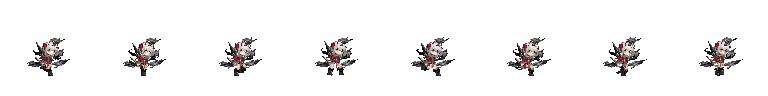
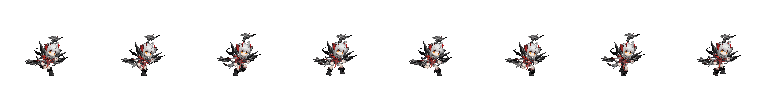
维什戴尔 S2 跑动第二版：腿看得出来（用户 10-24「S2 跑动我没看到腿」）
第一版用 move_attack（上半身照抄 S2 待机、只换腿），步幅小，膝盖高度又被展开的浮游武器和外套甲片挡住。
改成普通跑步同一套步态（前倾、下蹲），底稿换成原作 Skill_2_Idle / Skill_2_Overload_Idle 首帧，摆臂收小（保留架炮姿态），
步幅 ×1.6、离地抬高，四件浮游武器上抬 5 / 后收 2 像素。run_trial.js 加 maCarry（移动攻击也能带浮游部件，试做用）。

diff --git a/tools/spine_run_trial/run_trial.js b/tools/spine_run_trial/run_trial.js
@@ -197,7 +197,7 @@ async function main() {
     rotate(sk, hip, -f * P.lean); }
     // carry：不挂在身体骨链上、但该跟着身体走的部件（维什戴尔四件浮游武器挂在 Front 下）——随起伏 / 前倾绕髋转，
     // 再按配置抬起 / 后收 / 转角，[dx, dy, 度] 像素单位（@2x），带一点滞后摆动
-    for (const [n, off] of Object.entries(MA ? {} : (cfg.carry || {}))) {
+    for (const [n, off] of Object.entries(MA ? (cfg.maCarry || {}) : (cfg.carry || {}))) {   // maCarry：移动攻击 / 技能跑动里也带着浮游部件走（维什戴尔 S2 跑动，武器别挡腿）
       const b = get(sk, n); move(sk, b, 0, BOB[i % 8] * L * P.bob - (P.crouch || 0) * L); rotate(sk, b, -f * P.lean * (P.carryLean ?? 1), [hip.worldX, hip.worldY]);
       move(sk, b, f * (off[0] || 0) / SCALE, (off[1] || 0) / SCALE + (off[3] || 1.5) / SCALE * Math.sin(2 * phi - 1.2));
       if (off[2]) rotate(sk, b, f * off[2]);

diff --git a/tools/op_1x/make_wisadel_s2_run.py b/tools/op_1x/make_wisadel_s2_run.py
@@ -1,7 +1,7 @@
 """维什戴尔 S2 跑动帧条（10-24 用户「二技能的跑动动作得加上」）：S2 期间移动原来停在 s2_idle 上滑步。
-做法同 make_op_1x 的 move_attack（docs/128 §3）：上半身按原作 Spine 的 Skill_2_Idle / Skill_2_Overload_Idle 采样，
-腿换成跑步步态（run_trial.js mode=move_attack），逐部件 1 倍像素化；缩放与 make_op_1x 同口径（原待机首帧身高对齐），
-帧格 / 脚底沿用 s2_idle（96 画布、foot 48.25, 75.86）。上半身采样按真实时间走 8 × 0.075 秒（= 跑步一圈 0.6 秒），浮游武器不会被快放抖动。
+做法同普通跑步 op_wisadel_run（tools/spine_run_trial cfg/wisadel.json 的步态）：底稿换成原作 Spine 的 Skill_2_Idle /
+Skill_2_Overload_Idle 首帧（S2 架炮姿态与展开的浮游武器），逐部件 1 倍像素化；缩放与 make_op_1x 同口径（原待机首帧身高对齐），
+帧格 / 脚底沿用 s2_idle（96 画布、foot 48.25, 75.86）。参数见下面 EXTRA。
 用法：python -X utf8 tools/op_1x/make_wisadel_s2_run.py [--out-dir 目录]（缺省直接写 art/incoming/<tex>@1x.png）
 """
 import argparse, json, os, sys
@@ -16,13 +16,19 @@ SLOTS = {   # 新帧条 → (原生动画, 帧格 / 脚底参照槽)
     "op_wisadel_s2_over_run": ("Skill_2_Overload_Idle", "s2_over_idle"),
 }
 N = 8
-STEP = 0.075
+# 第二版（用户 10-24「S2 跑动我没看到腿」）：第一版用 move_attack（上半身照抄 S2 待机、只换腿），步幅小，
+# 四件浮游武器又横在膝盖高度，腿几乎看不出。改成普通跑步同一套（前倾、下蹲、摆臂收小）、底稿换成 S2 待机首帧，
+# 步幅 ×1.6、离地抬高，四件武器随身体上抬 5 像素 / 后收 2 像素，腿露在武器下面
+EXTRA = {"mode": "run", "sample": None, "params": {"armAmp": 6, "holdAmp": 2, "stride": 1.6},
+         "gaitLiftPx": [None, None, None, None, 14, 16, 7, 3],
+         "carry": {k: [-2, 5, 0] for k in ("C_Weapon_A_01", "C_Weapon_B_01", "C_Weapon_C_01", "C_Weapon_D_01")}}
 
 
 def main():
     ap = argparse.ArgumentParser()
     ap.add_argument("--out-dir", default="")
     ap.add_argument("--only", default="")
+    ap.add_argument("--cfg", default="", help="JSON：追加到 run_trial 配置（试 maCarry / hide / params 用）")
     a = ap.parse_args()
     jd = json.load(open(os.path.join(M.CHARS, OP + ".json"), encoding="utf-8"))
     sprites = jd["sprites"]
@@ -48,7 +54,14 @@ def main():
         sp = M.spec(sprites, ref)
         ref_im = Image.open(os.path.join(M.INC, sp["tex"] + "@1x.png"))
         fw, fh = ref_im.width // int(sp["frames"]), ref_im.height
-        c = dict(base, scaleMul=scale, mode="move_attack", sample={"anim": anim, "times": [round(i * STEP, 6) for i in range(N)]})
+        c = dict(base, scaleMul=scale, base={"anim": anim, "t": 0})
+        c.update(EXTRA)
+        c["params"] = dict(base.get("params", {}), **EXTRA["params"])
+        if a.cfg:
+            extra = json.loads(a.cfg)
+            if "params" in extra:
+                extra["params"] = dict(c.get("params", {}), **extra["params"])
+            c.update(extra)
         d = os.path.join(M.OUT, OP, tex)
         M.run_node(M.write_cfg(OP, tex, c), d)
         img = M.compose(d, N, fw, fh, sp["foot"], M.anchor_of(c))
